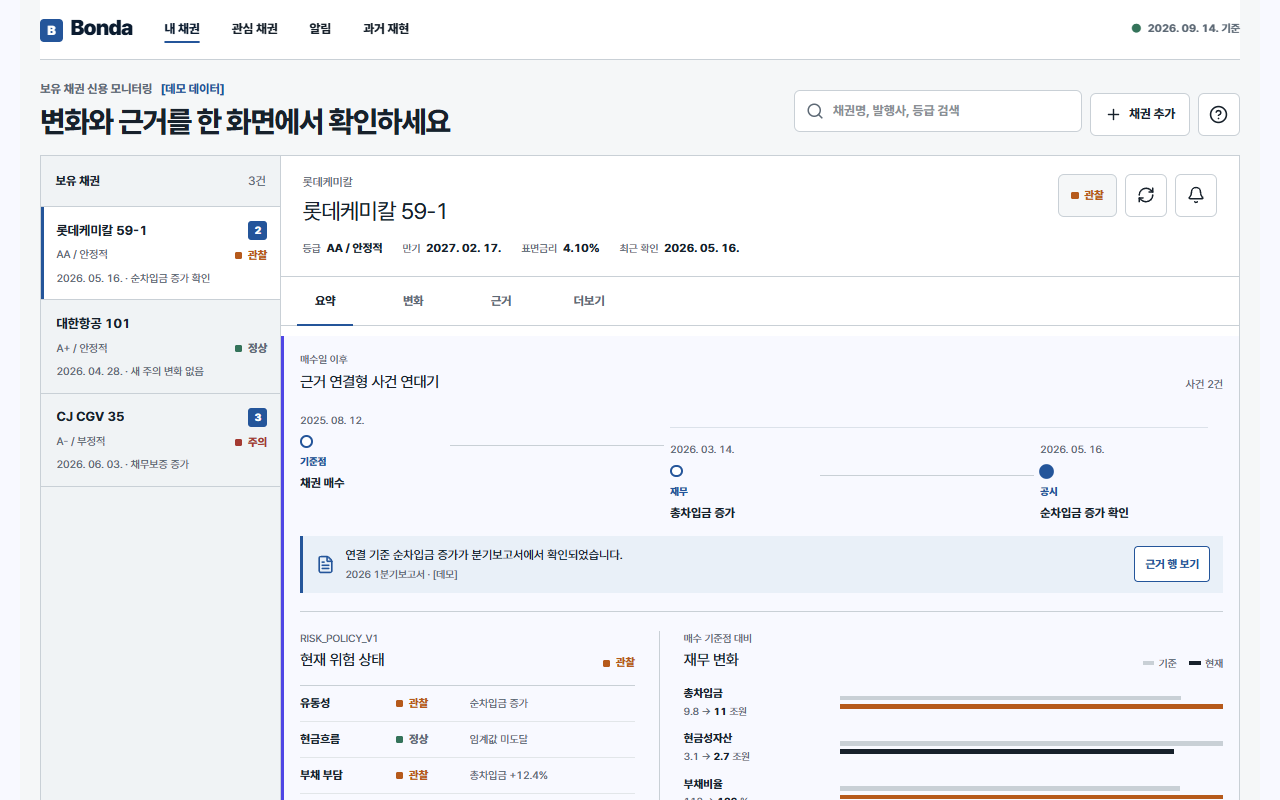
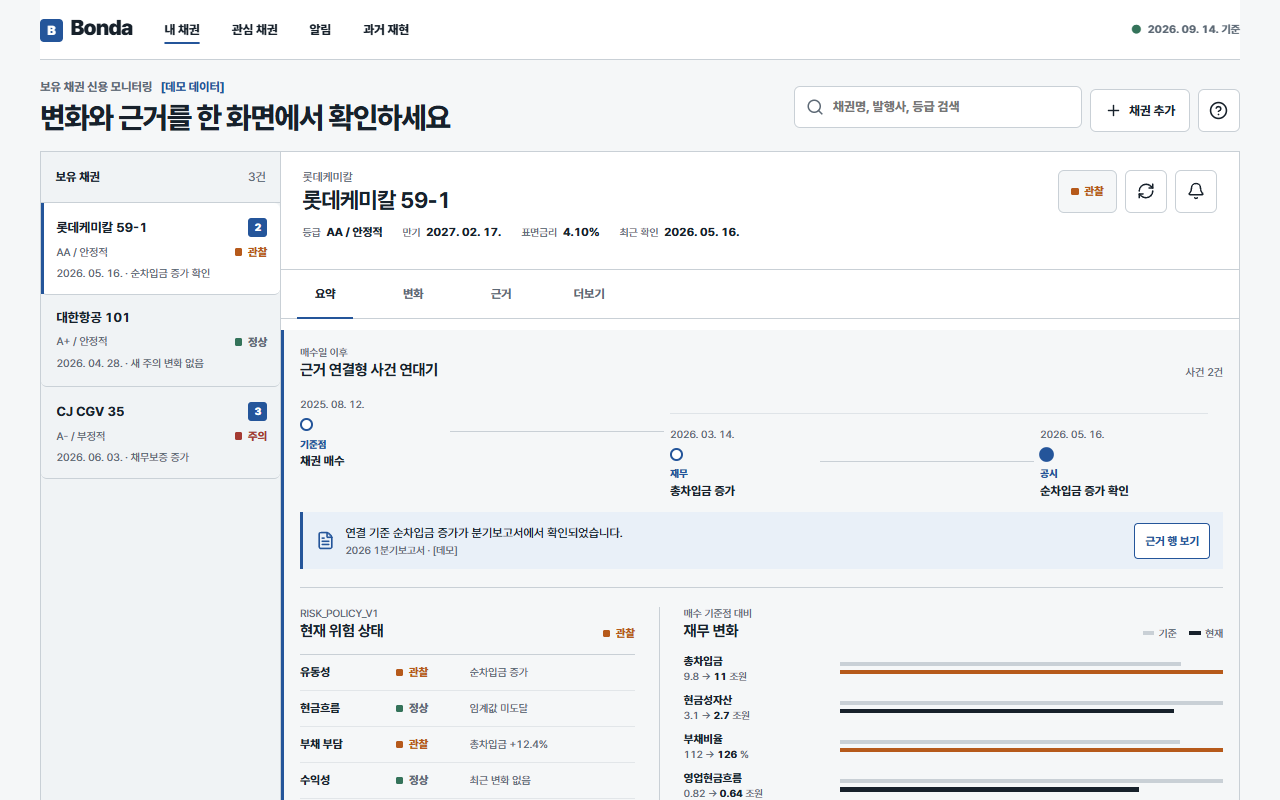
docs: record final visual QA evidence

diff --git a/design-qa.md b/design-qa.md
@@ -1,36 +1,71 @@
-# Design QA
+# Design QA — Evidence Rail
 
-- Source design: `frontend/mock/bonda_mock_main` and
-  `frontend/mock/bonda_mock_onboarding`
-- Implementation: `http://127.0.0.1:5173/monitoring` and `/`
-- Review date: 2026-09-13
+- Review date: 2026-09-14
+- Selected direction: user-selected option 1, `Evidence Rail`
+- Source design: `docs/design/evidence-rail-reference.png`
+- Implementation: `http://127.0.0.1:4173/monitoring`
+- Side-by-side evidence: `docs/design/evidence-rail-comparison.png`
+- Fixed captures: `monitoring-desktop.png`, `monitoring-tablet.png`, `monitoring-mobile-390.png`, `monitoring-mobile-320.png`
 
-## Visual comparison
+## Outcome
 
-| Viewport | Result | Evidence |
-| --- | --- | --- |
-| Desktop 1200×900 | passed | In-app browser before/after captures; two-pane hierarchy, selected state, header metrics, tabs and first evidence row remained visible. |
-| Mobile iframe 390×844 | passed | Rendered viewport measured `clientWidth=380`, `scrollWidth=380`; header, search, three evidence controls, filters, list and selected detail remained reachable. |
-| Mobile dialog | passed | Measured 364×828 with internal scroll (`scrollHeight=990`), Escape close, and trigger focus restoration. |
+The canonical monitoring route now follows the selected evidence-first direction: a compact bond list, selected-bond identity strip, discrete event chronology, current risk matrix, baseline/current financial comparison, evidence table, and a secondary AI disclosure. The runtime no longer imports either legacy mock application or its Tailwind override layer.
 
-## Interaction and accessibility checks
+This is a passed implementation of the approved frontend slice, not a production-data completion claim. The primary remaining limitation is data integration: `/monitoring` still uses explicitly labelled demo fixtures while the preserved detail/replay routes use the backend API.
 
-- Search reduced six sample bonds to one and clear restored all six.
-- Risk filter reduced the list to two and reset restored all six.
-- Empty results exposed a named reset action.
-- ArrowRight moved the selected tab from overview to raw facts.
-- Dialogs expose a name, stay modal, close on Escape, and return focus.
-- Required form failure stays in the dialog, announces an inline alert, and focuses
-  the first invalid input.
-- Browser console contained no runtime error during the checked flows.
+## Cold visual comparison
 
-## Anti-slop and trust checks
+| Axis | Score | Verdict |
+|---|---:|---|
+| Information hierarchy | 9/10 | Change chronology and evidence are clearly primary; AI is correctly demoted. |
+| Selected-reference fidelity | 8/10 | Grid, rule, color roles, event rail, matrix, comparison chart, table and mobile composition match the reference closely. |
+| Professional credibility | 8/10 | The purple AI-SaaS register, gradients, broad shadows and nested cards are gone. Some demo copy still prevents a fully institutional finish. |
+| Data readability | 8/10 | Aligned columns and tabular numerals scan well. The horizontal bars are intentionally simple and traceable, but not a substitute for production financial-series data. |
+| Mobile task flow | 7/10 | Selection goes directly to detail and utility actions use 44px icons. At 390×844 the event rail fills most of the first viewport, so the matrix requires one vertical scroll. This is a deliberate readability tradeoff, but it is less dense than the reference. |
+| Distinctiveness | 8/10 | The event-to-evidence rail is product-specific and survives without decorative effects. |
+| Production completeness | 6/10 | Demo fixtures are labelled, but live monitoring summaries, real DART deep links and user-measured desirability are still outstanding. |
 
-- Removed decorative gradients and status emoji from the monitoring product surface.
-- Removed broad card shadows and reduced large radii without removing information.
-- Replaced unsupported real-time, 24-hour, 100%, zero-error, and hard-coded model
-  claims with explicit demo or planned-state copy.
-- Automated `npm run check:ui` passed.
-- TypeScript `npx tsc --noEmit` passed.
+Overall visual/product score: **7.8/10**. This is materially better and credible enough to proceed, but it is not honest to call it finished production UX until real portfolio data and target-user task evidence replace the demo assumptions.
+
+## Functional and accessibility evidence
+
+- Search filters the portfolio and exposes a mobile search disclosure with focusable input.
+- Desktop bond rows and the mobile native selector both update the selected detail immediately.
+- Event selection updates the connected evidence explanation; the evidence action moves to the matching evidence dataset.
+- Tabs support click plus Left/Right/Home/End keyboard navigation.
+- Dialogs expose an accessible name, trap focus, close on Escape, and return focus to the trigger.
+- Mobile utility actions use labelled 44px icon controls; navigation retains icons and visible text.
+- All tested viewports keep `document.scrollWidth <= document.clientWidth`.
+- Charts include exact textual values and the risk matrix is exposed as a table.
+- Reduced-motion test configuration removes content animation without removing information.
+- Monitoring browser inspection reported no runtime console error. Replay tests intentionally exercised the visible backend-unavailable state because the local backend was not running.
+
+## Verification results
+
+| Gate | Result |
+|---|---|
+| `npm run check:ui` | passed |
+| `npm run build` | passed; 1,883 modules transformed |
+| `npm run test:ui` | passed; 24/24 across 1280×800, 768×1024, 390×844 and 320×800 |
+| `npx -p @google/design.md designmd lint DESIGN.md` | 0 errors; token-reference warnings recorded |
+| Frontend Design Premium strict audit | passed; 0 errors, 0 warnings |
+| Screenshot comparison | passed for hierarchy, density, palette, chart/table composition and mobile detail-first flow |
+
+## Regressions blocked by repository checks
+
+- Monitoring route importing `frontend/mock/bonda_mock_main`
+- Decorative gradient, persistent pulse and catch-all transition in the canonical monitoring slice
+- Unsupported real-time/100%/zero-error claims
+- Investment recommendation, default-risk guarantee and confirmed-return copy
+- Clickable non-button containers and forms without app-owned validation
+- Missing native Date/Select ownership and missing UI contracts
+
+## Remaining launch gaps
+
+1. Replace `monitoringRecords` with `GET /api/holdings/summary` plus since-bought/evidence adapters while preserving loading, empty, stale and error states.
+2. Connect an evidence row to the actual `riskEventId` detail and DART source URI; the current demo action only opens the evidence dataset.
+3. Validate the desirability gate with target users. No user study was performed, so “있어 보인다” is supported by the selected reference and implementation review, not by measured preference.
+4. Re-test replay success data with the backend running; current browser coverage proves route rendering and failure resilience only.
+5. Decide whether the mobile matrix must appear in the first 844px viewport. Doing so would require denser type or collapsing the selected-event explanation, both of which reduce readability.
 
 final result: passed

diff --git a/docs/IMPLEMENTATION_SPEC.md b/docs/IMPLEMENTATION_SPEC.md
@@ -129,9 +129,13 @@ PostgreSQL schema는 Flyway migration으로만 변경한다. 개발 확인용 se
 
 ## Current frontend baseline
 
-`/`는 `frontend/mock/bonda_mock_onboarding`, `/monitoring`은
-`frontend/mock/bonda_mock_main`의 원본 화면과 내장 더미 데이터를 직접
-렌더링한다. 현재 제품 UI의 시각적 기준 화면은 `/monitoring`이다.
+`/`는 `frontend/src/LandingPage.tsx`, `/monitoring`은
+`frontend/src/MonitoringPage.tsx`를 직접 렌더링한다. 런타임 route는
+`frontend/mock`을 import하지 않으며 `frontend/src/styles.css`와 root `DESIGN.md`가
+시각 token과 component 규칙의 canonical owner다. `/monitoring`의 현재 demo fixture는
+화면 가까이에 `[데모 데이터]`로 표시하고 정식 API 데이터와 혼동하지 않게 한다.
+현재 제품 UI의 시각적 기준 화면은 `docs/design/evidence-rail-reference.png`와
+`/monitoring`의 고정 viewport capture다.
 `/holdings/:holdingId/since-bought`, `/risk-events/:riskEventId`,
 `/admin/replay`의 기존 API 연동 화면은 별도 경로에 보존되어 있다.
 
